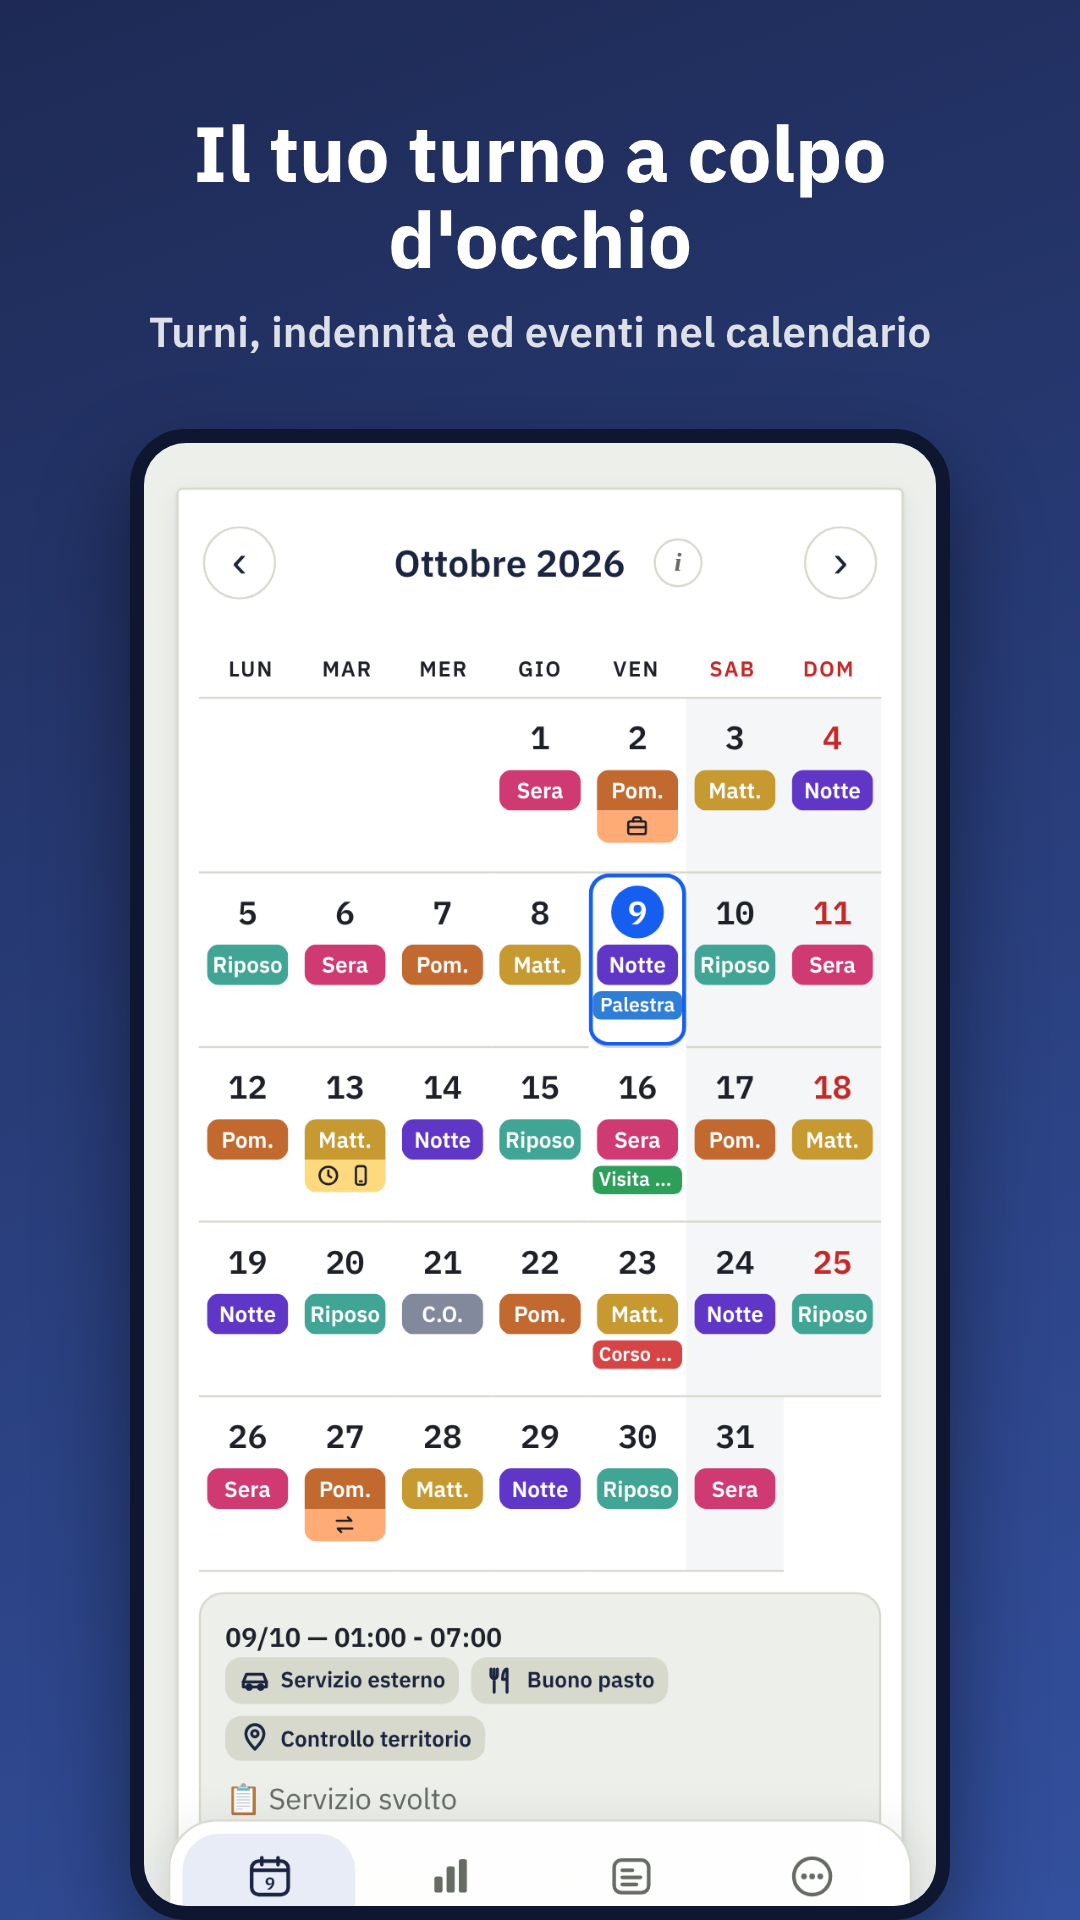
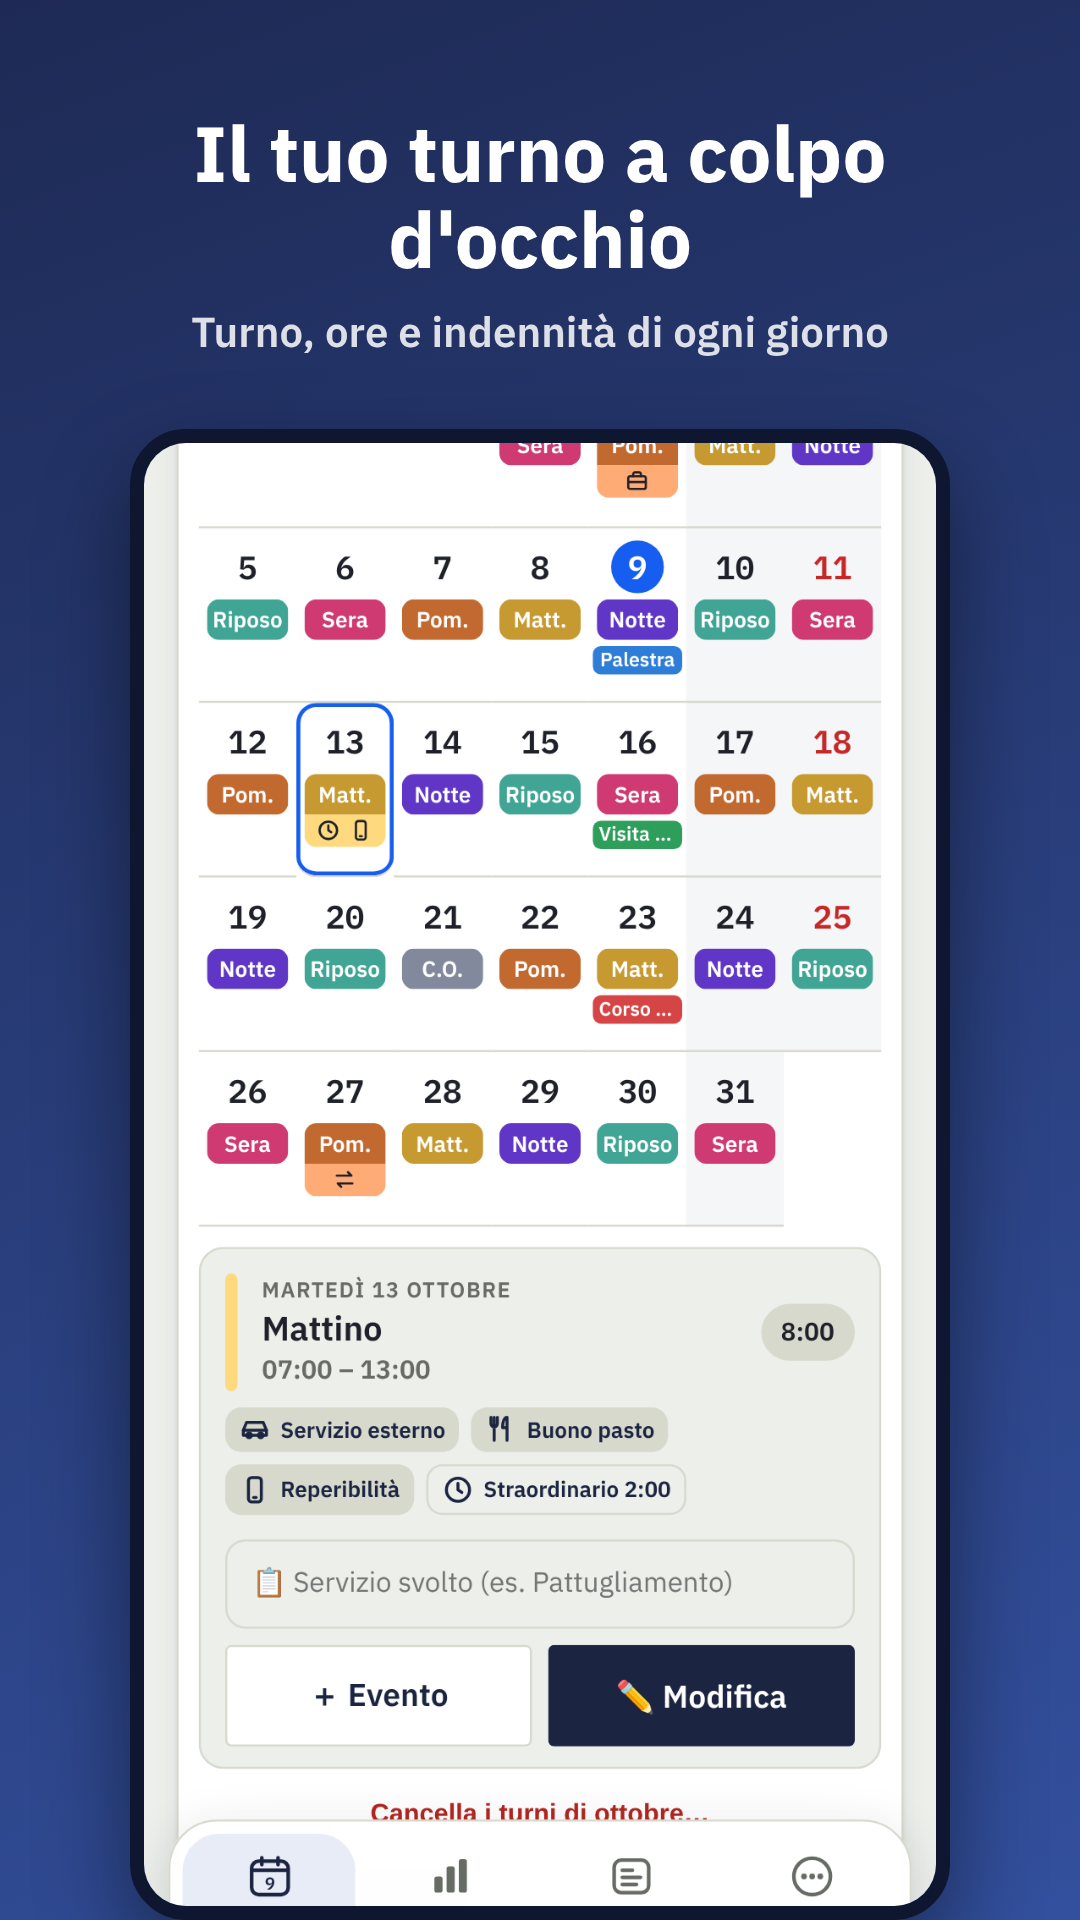
v2.67.1: backup di promemoria e widget, aiuto per le email di Google Calendar, immagini Play Store
- Il backup salva e ripristina il promemoria del turno e il widget
- Esporta in Google Calendar: consiglio del calendario "Turni" e come togliere l'email prima del turno
- Immagini Play Store rifatte (riquadro del giorno nuovo) e nuova 7-promemoria
- Testo "Novità" per Play Console in grafica-play-store/novita.txt
- Controlli automatici: 121

Claude-Session: https://claude.ai/code/session_01PSeREU5gDDB7bRrUAU7GkJ

Changed region(s): [[0.1833, 0.2188, 0.825, 0.9688], [0.1222, 0.1562, 0.8556, 0.1875], [0.4583, 0.9375, 0.4889, 0.9688]]

diff --git a/www/js/backup.js b/www/js/backup.js
@@ -70,7 +70,9 @@ async function esportaBackup(){
     eventiGiorno: AppState.eventiGiorno,
     sequenzaAncora: TurniPSStorage.getItem(CHIAVE_SEQUENZA_ANCORA) || null,
     sequenzaUltimoGiorno: TurniPSStorage.getItem(CHIAVE_SEQUENZA_ULTIMO_GIORNO) || null,
-    sequenzaPattern: TurniPSStorage.getItem(CHIAVE_SEQUENZA_PATTERN) || null
+    sequenzaPattern: TurniPSStorage.getItem(CHIAVE_SEQUENZA_PATTERN) || null,
+    promemoriaTurno: TurniPSStorage.getItem(CHIAVE_PROMEMORIA_TURNO) || null,
+    widget: TurniPSStorage.getItem(CHIAVE_WIDGET) || null
   };
   // coloriTurni: solo nel backup Drive a pagamento (costruisciDatiBackup) e export colori dedicato
   await salvaOCondividiFile(`backup-simulatore-cedolino-${dataISO(new Date())}.json`, JSON.stringify(dati, null, 2), 'application/json');
@@ -100,7 +102,9 @@ function costruisciDatiBackup(){
     indennitaNascoste: TurniPSStorage.getItem(CHIAVE_INDENNITA_NASCOSTE) || null,
     sequenzaAncora: TurniPSStorage.getItem(CHIAVE_SEQUENZA_ANCORA) || null,
     sequenzaUltimoGiorno: TurniPSStorage.getItem(CHIAVE_SEQUENZA_ULTIMO_GIORNO) || null,
-    sequenzaPattern: TurniPSStorage.getItem(CHIAVE_SEQUENZA_PATTERN) || null
+    sequenzaPattern: TurniPSStorage.getItem(CHIAVE_SEQUENZA_PATTERN) || null,
+    promemoriaTurno: TurniPSStorage.getItem(CHIAVE_PROMEMORIA_TURNO) || null,
+    widget: TurniPSStorage.getItem(CHIAVE_WIDGET) || null
   };
 }
 
@@ -744,6 +748,9 @@ function importaBackup(file, datiGiaLetti){
       if(dati.sequenzaAncora) TurniPSStorage.setItem(CHIAVE_SEQUENZA_ANCORA, dati.sequenzaAncora);
       if(typeof dati.sequenzaUltimoGiorno === 'string') TurniPSStorage.setItem(CHIAVE_SEQUENZA_ULTIMO_GIORNO, dati.sequenzaUltimoGiorno);
       if(typeof dati.sequenzaPattern === 'string') TurniPSStorage.setItem(CHIAVE_SEQUENZA_PATTERN, dati.sequenzaPattern);
+      // Promemoria del turno e widget: si ripristinano come erano (se nel backup erano accesi).
+      if(typeof dati.promemoriaTurno === 'string'){ try{ if(JSON.parse(dati.promemoriaTurno) && typeof JSON.parse(dati.promemoriaTurno) === 'object') TurniPSStorage.setItem(CHIAVE_PROMEMORIA_TURNO, dati.promemoriaTurno); }catch(e){} }
+      if(dati.widget === '1' || dati.widget === '0') TurniPSStorage.setItem(CHIAVE_WIDGET, dati.widget);
       if(dati.eventiGiorno && typeof dati.eventiGiorno === 'object' && !Array.isArray(dati.eventiGiorno)){
         const eventiPrima = AppState.eventiGiorno || {};
         AppState.eventiGiorno = dati.eventiGiorno;
@@ -784,6 +791,8 @@ function importaBackup(file, datiGiaLetti){
       aggiornaRiassuntoAnagrafica();
       renderCalendario();
       renderStorico();
+      if(typeof aggiornaVistaPromemoriaTurno === 'function'){ aggiornaVistaPromemoriaTurno(); riprogrammaPromemoriaTurni(); }
+      if(typeof aggiornaVistaWidget === 'function'){ aggiornaVistaWidget(); aggiornaWidget(); }
       el('contenitoreCedolino').hidden = true;
       mostraAvviso('Backup importato correttamente.');
       if(typeof mostraToast === 'function') mostraToast('Dati ripristinati correttamente.', 'successo');

diff --git a/www/index.html b/www/index.html
@@ -1058,6 +1058,8 @@
       <details class="riquadro-giorno altro-giorno" style="margin-top:12px;">
         <summary>Come importarlo in Google Calendar<b aria-hidden="true">⌄</b></summary>
         <p class="sotto-titolo" style="margin:0;">1. Salva il file (o mandalo a te stesso per email). 2. Dal computer apri <b>calendar.google.com</b> → ⚙ Impostazioni → <b>Importa ed esporta</b> → Importa, e scegli il file. I turni compaiono anche sul telefono. Alcuni calendari (es. Samsung) aprono il file direttamente.</p>
+        <p class="sotto-titolo" style="margin:8px 0 0;"><b>Consiglio:</b> prima crea un calendario a parte chiamato "Turni" (⚙ Impostazioni → Aggiungi calendario → Crea nuovo calendario) e importa lì il file.</p>
+        <p class="sotto-titolo" style="margin:8px 0 0;"><b>Ti arriva un'email prima di ogni turno?</b> La manda Google Calendar, non l'app: il file non contiene avvisi. Per toglierla: ⚙ Impostazioni → il calendario dei turni → <b>Notifiche evento</b> → cancella la riga "Email". Per l'avviso prima del turno puoi usare il Promemoria del turno dell'app (in Altro).</p>
       </details>
     </div>
     <div class="modale-footer">

diff --git a/www/sw.js b/www/sw.js
@@ -1,6 +1,6 @@
-/* Turni & Accessorio PS — Service Worker V174 (v2.67.0 — riquadro del giorno compatto, assenze nel menu) */
+/* Turni & Accessorio PS — Service Worker V175 (v2.67.1 — backup di promemoria e widget, aiuto Google Calendar) */
 'use strict';
-const CACHE='turni-ps-v174';
+const CACHE='turni-ps-v175';
 const APP_SHELL=[
  './','./index.html','./manifest.json','./style.css','./script.js',
  './js/config.js','./js/state.js','./js/storage.js','./js/utils.js','./js/shifts.js','./js/absences.js','./js/calendar.js','./js/sequence.js','./js/payroll.js','./js/tables.js','./js/profile.js','./js/backup.js','./js/ui.js','./js/dashboard.js','./js/statistics.js','./js/offline.js','./js/migrations.js','./js/data-guard.js','./js/data/tabelle-2026.js',
